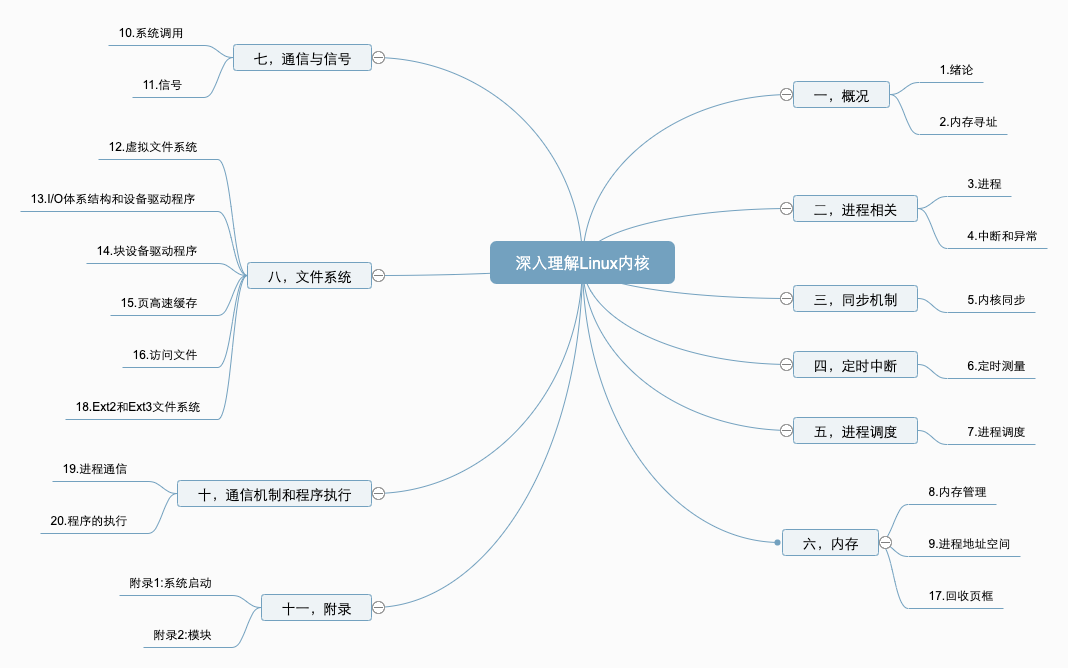
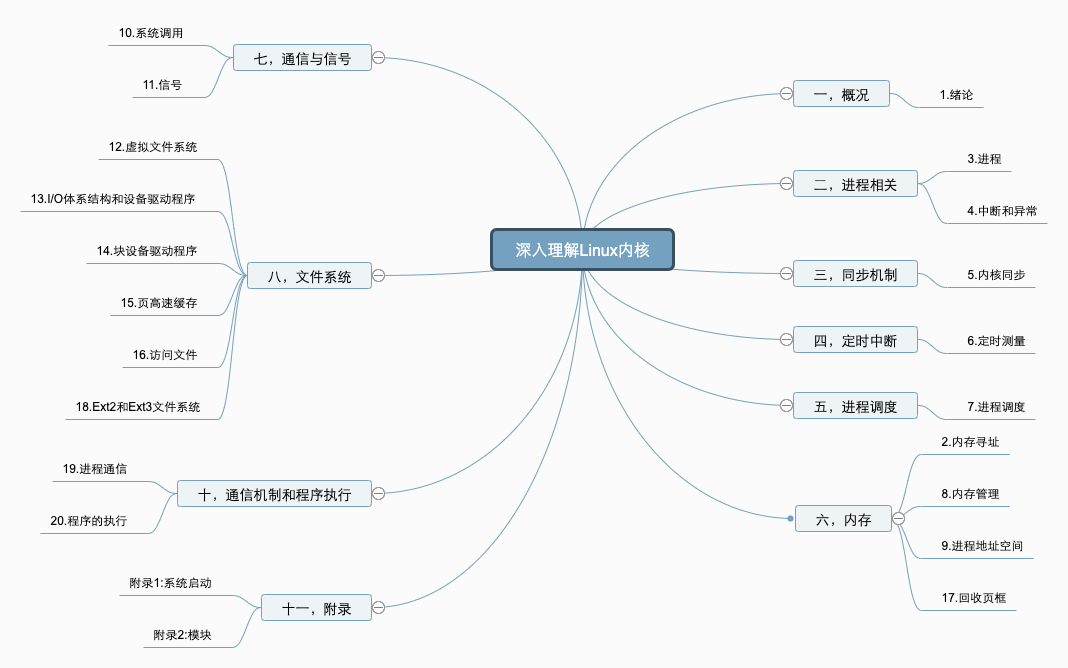
start memory address

diff --git a/_posts/2020-04-28-Understanding-The-Linux-Kernel-1-Memory-Address.md b/_posts/2020-04-28-Understanding-The-Linux-Kernel-1-Memory-Address.md
@@ -1,0 +1,30 @@
+---
+layout: post
+title: 深入理解 Linux 内核（一）：内存寻址
+date: 2020-04-28 18:11:04
+author: admin
+comments: true
+categories: [Linux]
+tags: [Linux, Linux Kernel]
+---
+
+进入书的第二章：内存寻址。
+
+<!-- more -->
+
+---
+
+* 目录
+{:toc}
+---
+
+## 内存地址
+首先区分三类地址：
+1. 逻辑地址：段（segment） + 偏移量（offset）
+2. 线性地址：也称虚拟地址，是一个32位无符号整数
+3. 物理地址：用于芯片级别内存单元寻址，通常与总线上的电信号相对应。
+
+
+
+### 未完待续。。。。
+

diff --git a/_posts/2020-04-10-Understanding-The-Linux-Kernel-0-Overview.md b/_posts/2020-04-10-Understanding-The-Linux-Kernel-0-Overview.md
@@ -331,6 +331,9 @@ fork 函数用来创建一个进程，exit 函数用来终止一个进程，exec
 
 
 
+
+
+
 ## 参考资料
 
 [深入理解LINUX内核(第三版)](https://book.douban.com/subject/2287506/)
